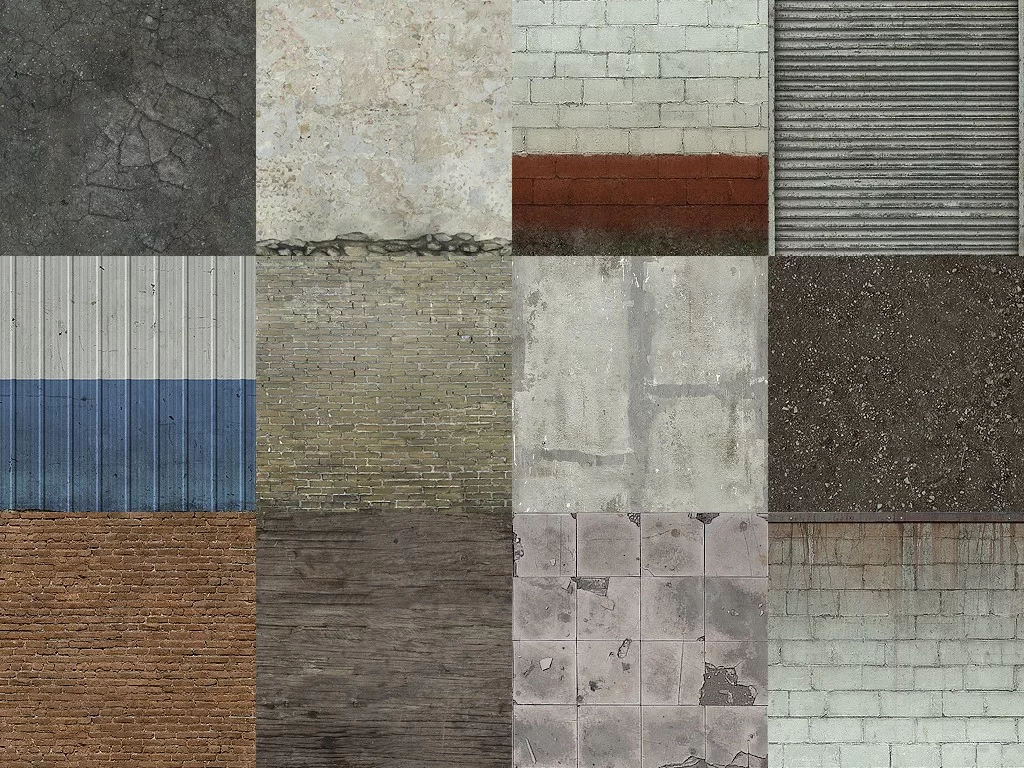
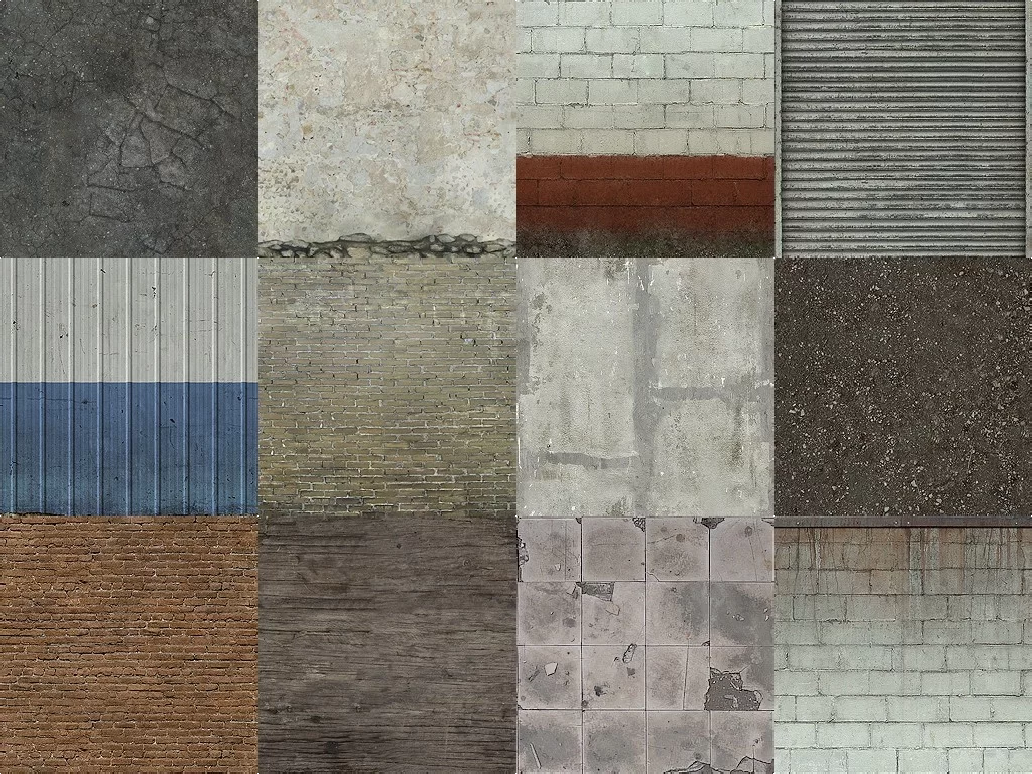
fixed spritesheet

diff --git a/main.cpp b/main.cpp
@@ -191,7 +191,7 @@ int main()
 
             // Prepare wall line
             {
-                sf::Vector2f offset{(float)wall_texture_index.x * tex_width, (float)wall_texture_index.y * tex_height};
+                sf::Vector2f offset{(float)wall_texture_index.x * (tex_width + 2) + 1, (float)wall_texture_index.y * (tex_height + 2) + 1};
                 lines[idx_vx + 0].texCoords = offset + sf::Vector2f{float(texX), 0};
                 lines[idx_vx + 1].texCoords = offset + sf::Vector2f{float(texX), (float)tex_height};
                 lines[idx_vx + 0].position = {float(x), (float) drawStart};
@@ -243,14 +243,14 @@ int main()
 
                 // Prepare floor
                 {
-                    sf::Vector2f offset{(float)floor_texture_index.x * tex_width, (float)floor_texture_index.y * tex_height};
+                    sf::Vector2f offset{(float)floor_texture_index.x * (tex_width + 2) + 1, (float)floor_texture_index.y * (tex_height + 2) + 1};
                     sf::Vertex vertex({ (float)x - 1, (float)y }, offset + sf::Vector2f{(float)floorTexX, (float)floorTexY});
                     points.append(vertex);
                 }
 
                 // Prepare ceiling
                 {
-                    sf::Vector2f offset{(float)ceiling_texture_index.x * tex_width, (float)ceiling_texture_index.y * tex_height};
+                    sf::Vector2f offset{(float)ceiling_texture_index.x * (tex_width + 2) + 1, (float)ceiling_texture_index.y * (tex_height + 2) + 1};
                     sf::Vertex vertex({ (float)x - 1, (float)h - y + 1 }, offset + sf::Vector2f{(float)floorTexX, (float)floorTexY});
                     points.append(vertex);
                 }
